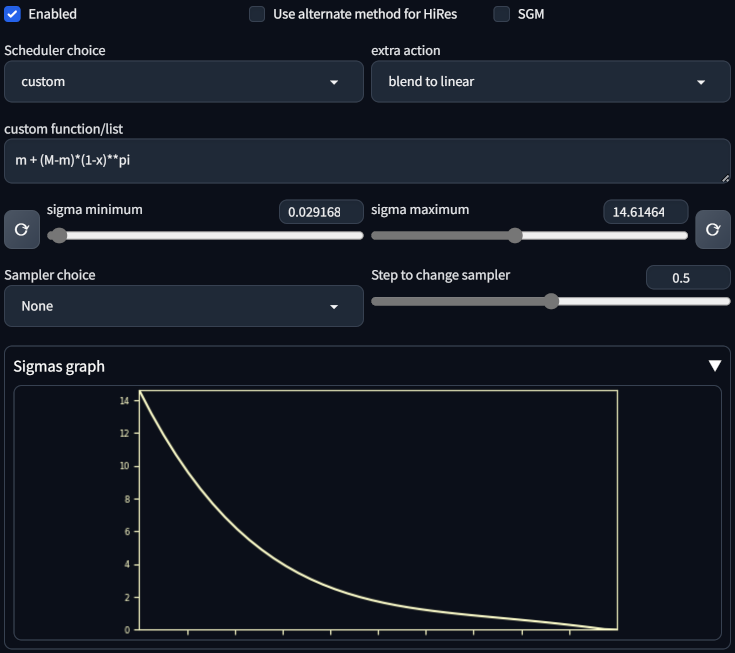
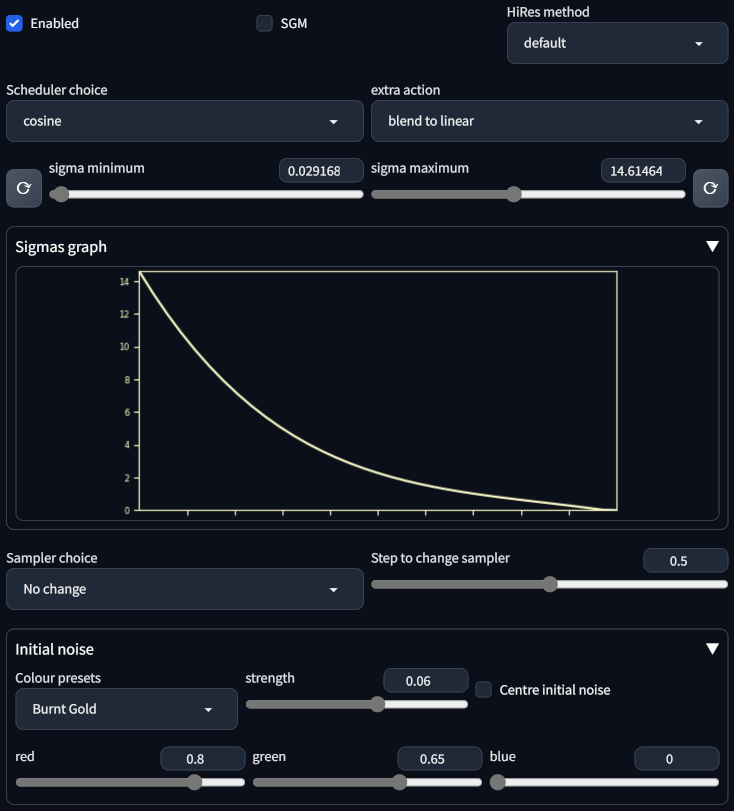
Add files via upload
see README

diff --git a/scripts/forge_overSched.py b/scripts/forge_overSched.py
@@ -13,7 +13,7 @@ import modules.sd_samplers_lcm
 import modules.sd_samplers_timesteps
 import torch, math
 import numpy as np
-
+from modules.sd_samplers_common import images_tensor_to_samples, approximation_indexes
 
 import matplotlib
 matplotlib.use('Agg')
@@ -25,7 +25,7 @@ from modules_forge.forge_sampler import sampling_prepare, sampling_cleanup
 
 class patchedKDiffusionSampler(modules.sd_samplers_common.Sampler):
     samplers_list = [
-        ('None',        None,                                           {}                                                                              ),
+        ('No change',   None,                                           {}                                                                              ),
         ('DPM++ 2M',    k_diffusion.sampling.sample_dpmpp_2m,           {}                                                                              ),
         ('Euler a',     k_diffusion.sampling.sample_euler_ancestral,    {"uses_ensd": True}                                                             ),
         ('Euler',       k_diffusion.sampling.sample_euler,              {}                                                                              ),
@@ -453,12 +453,64 @@ class patchedKDiffusionSampler(modules.sd_samplers_common.Sampler):
 
         sigmas = self.get_sigmas(p, steps).to(x.device)
 
+        #   can modify initial noise here? yep
+        if OverSchedForge.centreNoise:
+            for b in range(len(x)):
+                for c in range(4):
+                    x[b][c] -= x[b][c].mean()
+
+        w = x.size(3)
+        h = x.size(2)
+
+        #   sharpen the initial noise
+        if OverSchedForge.sharpNoise:
+            import torchvision.transforms.functional as TF
+            minDim = 1 + 2 * (min(w, h) // 2)
+            for b in range(len(x)):
+                blurred = TF.gaussian_blur(x[b], minDim)
+                x[b] = (1.04)*x[b] - 0.04*blurred
+
+        #   colour the initial noise
+        if OverSchedForge.noiseStrength != 0.0:
+            nr = (OverSchedForge.initialNoiseR * 2) - 1.0
+            ng = (OverSchedForge.initialNoiseG * 2) - 1.0
+            nb = (OverSchedForge.initialNoiseB * 2) - 1.0
+
+##            latent1x1a = 1.6981 * nr + -0.029861 * ng + -0.057465 * nb
+##            latent1x1b = -0.282707 * nr + 4.91431 * ng + -3.04784 * nb
+##            latent1x1c = -2.55163 * nr + 2.23159 * ng + 0.0448761 * nb
+##            latent1x1d = -0.780834 * nr + 3.02981 * ng + -3.22914 * nb
+
+##            latent1x1a = torch.tensor(latent1x1a, device=shared.device).repeat(h, w)
+##            latent1x1b = torch.tensor(latent1x1b, device=shared.device).repeat(h, w)
+##            latent1x1c = torch.tensor(latent1x1c, device=shared.device).repeat(h, w)
+##            latent1x1d = torch.tensor(latent1x1d, device=shared.device).repeat(h, w)
+##            latent = torch.stack((latent1x1a, latent1x1b, latent1x1c, latent1x1d), dim=0)
+##            del latent1x1a, latent1x1b, latent1x1c, latent1x1d
+##            latent = latent.unsqueeze(0)
+##
+##            torch.lerp (x, latent, OverSchedForge.noiseStrength, out=x)
+##            del latent
+
+            imageR = torch.tensor(np.full((8,8), (nr), dtype=np.float32))
+            imageG = torch.tensor(np.full((8,8), (ng), dtype=np.float32))
+            imageB = torch.tensor(np.full((8,8), (nb), dtype=np.float32))
+            image = torch.stack((imageR, imageG, imageB), dim=0)
+            image = image.unsqueeze(0)
+
+            latent = images_tensor_to_samples(image, approximation_indexes.get(opts.sd_vae_encode_method), p.sd_model)
+            if shared.sd_model.is_sd1 == True:
+                latent *= 3.5   #maybe should be ~3.5? roughly match scale with default noise
+            latent = latent.repeat (1, 1, h, w)
+
+            torch.lerp (x, latent, OverSchedForge.noiseStrength, out=x)
+            del imageR, imageG, imageB, image, latent
+
         if opts.sgm_noise_multiplier:
             p.extra_generation_params["SGM noise multiplier"] = True
             x = x * torch.sqrt(1.0 + sigmas[0] ** 2.0)
         else:
             x = x * sigmas[0]
-
 
         extra_params_kwargs = self.initialize(p)
 #p is modules.processing.StableDiffusionProcessingTxt2Img object
@@ -473,11 +525,14 @@ class patchedKDiffusionSampler(modules.sd_samplers_common.Sampler):
         }
 
         listSigmas = sigmas.tolist()
+        samplerIndex = OverSchedForge.samplerIndex
 
-        stepToChange = int(OverSchedForge.step * len(sigmas))
-
-        s1 = torch.tensor(listSigmas[0:stepToChange+1], device='cuda:0')
-        s2 = torch.tensor(listSigmas[stepToChange:len(sigmas)], device='cuda:0')
+        if samplerIndex == 0:
+            s1 = sigmas
+        else:
+            stepToChange = int(OverSchedForge.step * len(sigmas))
+            s1 = torch.tensor(listSigmas[0:stepToChange+1], device='cuda:0')
+            s2 = torch.tensor(listSigmas[stepToChange:len(sigmas)], device='cuda:0')
 
         parameters = inspect.signature(self.func).parameters
 
@@ -509,60 +564,54 @@ class patchedKDiffusionSampler(modules.sd_samplers_common.Sampler):
 
         #euler dy slightly different results with switch, and dpm2 (uses sigma[i-1])
 
+        if samplerIndex != 0:
+            self.func = patchedKDiffusionSampler.samplers_list[samplerIndex][1]
+            extraParams = patchedKDiffusionSampler.samplers_list[samplerIndex][2]
 
-        samplerIndex = OverSchedForge.samplerIndex
-        self.func = patchedKDiffusionSampler.samplers_list[samplerIndex][1]
-        extraParams = patchedKDiffusionSampler.samplers_list[samplerIndex][2]
+            parameters = inspect.signature(self.func).parameters
 
+            if 'n' in parameters:
+                extra_params_kwargs['n'] = steps
 
-        parameters = inspect.signature(self.func).parameters
+            if 'sigma_min' in parameters:
+                extra_params_kwargs['sigma_min'] = self.model_wrap.sigmas[-1].item()    #check these - need to use values from extension instead?
+                extra_params_kwargs['sigma_max'] = self.model_wrap.sigmas[0].item()
 
-        if 'n' in parameters:
-            extra_params_kwargs['n'] = steps
+            if 'sigmas' in parameters:
+                extra_params_kwargs['sigmas'] = s2
+            else:
+                extra_params_kwargs.pop('sigmas', None)
 
-        if 'sigma_min' in parameters:
-            extra_params_kwargs['sigma_min'] = self.model_wrap.sigmas[-1].item()    #check these - need to use values from extension instead?
-            extra_params_kwargs['sigma_max'] = self.model_wrap.sigmas[0].item()
+            if extraParams.get('brownian_noise', False):
+                noise_sampler = self.create_noise_sampler(x, sigmas, p)
+                extra_params_kwargs['noise_sampler'] = noise_sampler
+                extra_params_kwargs['s_noise'] = 1.0
+                extra_params_kwargs['eta'] = 1.0
+            else:
+                extra_params_kwargs.pop('eta', None)
+                extra_params_kwargs.pop('s_noise', None)
+                extra_params_kwargs.pop('noise_sampler', None)
 
-        if 'sigmas' in parameters:
-            extra_params_kwargs['sigmas'] = s2
-        else:
-            extra_params_kwargs.pop('sigmas', None)
+            if extraParams.get('solver_type', None) == 'heun':
+                extra_params_kwargs['solver_type'] = 'heun'
 
-        if extraParams.get('brownian_noise', False):
-            noise_sampler = self.create_noise_sampler(x, sigmas, p)
-            extra_params_kwargs['noise_sampler'] = noise_sampler
-            extra_params_kwargs['s_noise'] = 1.0
-            extra_params_kwargs['eta'] = 1.0
-        else:
-            extra_params_kwargs.pop('eta', None)
-            extra_params_kwargs.pop('s_noise', None)
-            extra_params_kwargs.pop('noise_sampler', None)
-
-        if extraParams.get('solver_type', None) == 'heun':
-            extra_params_kwargs['solver_type'] = 'heun'
-
-#maybe should control this by sampler, but seems like they have default values anyway
-#add UI for these values?? overkill
-
-
-        if samplerIndex == 3 or samplerIndex == 5 or samplerIndex == 6 :     #euler, heun, dpm2
-            extra_params_kwargs['s_churn'] = shared.opts.s_churn
-            extra_params_kwargs['s_tmin'] = shared.opts.s_tmin
-            extra_params_kwargs['s_tmax'] = shared.opts.s_tmax
-        elif samplerIndex >= 16 and samplerIndex <= 19:     #euler dy *4
-            extra_params_kwargs['s_churn'] = shared.opts.s_churn
-            extra_params_kwargs['s_tmin'] = shared.opts.s_tmin
-            extra_params_kwargs['s_tmax'] = shared.opts.s_tmax
-            extra_params_kwargs['s_noise'] = shared.opts.s_noise
-        else:
-            extra_params_kwargs.pop('s_churn', None)
-            extra_params_kwargs.pop('s_tmin', None)
-            extra_params_kwargs.pop('s_tmax', None)
+            if samplerIndex == 3 or samplerIndex == 5 or samplerIndex == 6 :     #euler, heun, dpm2
+                extra_params_kwargs['s_churn'] = shared.opts.s_churn
+                extra_params_kwargs['s_tmin'] = shared.opts.s_tmin
+                extra_params_kwargs['s_tmax'] = shared.opts.s_tmax
+            elif samplerIndex >= 16 and samplerIndex <= 19:     #euler dy *4
+                extra_params_kwargs['s_churn'] = shared.opts.s_churn
+                extra_params_kwargs['s_tmin'] = shared.opts.s_tmin
+                extra_params_kwargs['s_tmax'] = shared.opts.s_tmax
+                extra_params_kwargs['s_noise'] = shared.opts.s_noise
+            else:
+                extra_params_kwargs.pop('s_churn', None)
+                extra_params_kwargs.pop('s_tmin', None)
+                extra_params_kwargs.pop('s_tmax', None)
 
 
-        samples = self.launch_sampling(steps, lambda: self.func(self.model_wrap_cfg, samples, extra_args=self.sampler_extra_args,
-                                                                disable=False, callback=self.callback_state, **extra_params_kwargs))
+            samples = self.launch_sampling(steps, lambda: self.func(self.model_wrap_cfg, samples, extra_args=self.sampler_extra_args,
+                                                                    disable=False, callback=self.callback_state, **extra_params_kwargs))
 
 ##        #save
 ##import pickle
@@ -584,8 +633,11 @@ class OverSchedForge(scripts.Script):
     get_sigmas_backup = None
     setup_img2img_steps_backup = None
     sgm = False
+    centreNoise = False
+    sharpNoise = False
 ##    last_scheduler = None
 
+    from colourPresets import presetList
 
     def __init__(self):
         self.enabled = False
@@ -625,13 +677,26 @@ class OverSchedForge(scripts.Script):
                 sigmaMax = gr.Slider (label="sigma maximum", value=14.614642,
                                       minimum=2.0, maximum=30.0, step=0.001);
                 defMax = ToolButton (value='\U000027F3')
-            with gr.Row(equalHeight=True):
-                sampler = gr.Dropdown(samplerList, value="None", type='index', label='Sampler choice', scale=1)
-                step = gr.Slider(minimum=0.01, maximum=0.99, value=0.5, label='Step to change sampler')
 
             with gr.Accordion (open=False, label="Sigmas graph"):
                 z_vis = gr.Plot(value=None, elem_id='schedride-vis', show_label=False, scale=2) 
 
+            with gr.Row(equalHeight=True):
+                sampler = gr.Dropdown(samplerList, value="No change", type='index', label='Sampler choice', scale=1)
+                step = gr.Slider(minimum=0.01, maximum=0.99, value=0.5, label='Step to change sampler')
+
+            with gr.Accordion (open=False, label="Initial noise"):
+                with gr.Row(equalHeight=True):
+                    preset = gr.Dropdown([i[0] for i in self.presetList], value="None", type='index', label='Colour presets')
+                    noiseStrength = gr.Slider(minimum=0, maximum=0.1, value=0.0, step=0.001, label='strength')
+                    centreNoise = ToolButton(value="c", variant='secondary', tooltip='Centre initial noise')
+                    sharpNoise = ToolButton(value="s", variant='secondary', tooltip='Sharpen initial noise')
+
+                with gr.Row():
+                    initialNoiseR = gr.Slider(minimum=0, maximum=1.0, value=0.0, label='red')
+                    initialNoiseG = gr.Slider(minimum=0, maximum=1.0, value=0.0, label='green')
+                    initialNoiseB = gr.Slider(minimum=0, maximum=1.0, value=0.0, label='blue')
+                
             for i in [scheduler, action, custom, sigmaMin, sigmaMax]:
                 i.change(
                     fn=self.visualize,
@@ -646,16 +711,38 @@ class OverSchedForge(scripts.Script):
                 else:
                     return gr.update(visible=False)
 
-            scheduler.change(fn=toggleCustom, inputs=[scheduler], outputs=[custom], show_progress=False)
+            def updateColours (p):
+                return self.presetList[p][1], self.presetList[p][2], self.presetList[p][3], self.presetList[p][4]
 
+            scheduler.change(fn=toggleCustom, inputs=[scheduler], outputs=[custom], show_progress=False)
+            preset.change(fn=updateColours, inputs=[preset], outputs=[initialNoiseR, initialNoiseG, initialNoiseB, noiseStrength], show_progress=False)
 
             def defaultSigmaMin ():
                 return 0.029168
             def defaultSigmaMax ():
                 return 14.614642
-
             defMin.click(defaultSigmaMin, inputs=[], outputs=sigmaMin, show_progress=False)
             defMax.click(defaultSigmaMax, inputs=[], outputs=sigmaMax, show_progress=False)
+
+            def toggleCentre ():
+                if OverSchedForge.centreNoise == False:
+                    OverSchedForge.centreNoise = True
+                    return gr.Button.update(value='C', variant='primary')
+                else:
+                    OverSchedForge.centreNoise = False
+                    return gr.Button.update(value='c', variant='secondary')
+            def toggleSharp ():
+                if OverSchedForge.sharpNoise == False:
+                    OverSchedForge.sharpNoise = True
+                    return gr.Button.update(value='S', variant='primary')
+                else:
+                    OverSchedForge.sharpNoise = False
+                    return gr.Button.update(value='s', variant='secondary')
+
+
+            centreNoise.click(toggleCentre, inputs=[], outputs=centreNoise)
+            sharpNoise.click(toggleSharp, inputs=[], outputs=sharpNoise)
+
 
         self.infotext_fields = [
             (enabled, lambda d: enabled.update(value=("os_enabled" in d))),
@@ -668,9 +755,15 @@ class OverSchedForge(scripts.Script):
             (sigmaMax, "os_sigmaMax"),
             (sampler, "os_sampler"),
             (step, "os_step"),
+            (centreNoise, "os_centreNoise"),
+            (sharpNoise, "os_sharpNoise"),
+            (noiseStrength, "os_noiseStr"),
+            (initialNoiseR, "os_nR"),
+            (initialNoiseG, "os_nG"),
+            (initialNoiseB, "os_nB"),
         ]
 
-        return enabled, hiresAlt, sgm, scheduler, action, custom, sigmaMin, sigmaMax, sampler, step
+        return enabled, hiresAlt, sgm, scheduler, action, custom, sigmaMin, sigmaMax, initialNoiseR, initialNoiseG, initialNoiseB, noiseStrength, sampler, step
 
     def visualize(self, scheduler, action, sigmaMin, sigmaMax, custom):
         if scheduler == "None":
@@ -728,7 +821,7 @@ class OverSchedForge(scripts.Script):
         # This will be called before every sampling.
         # If you use highres fix, this will be called twice.
 
-        enabled, hiresAlt, sgm, scheduler, action, custom, sigmaMin, sigmaMax, sampler, step = script_args
+        enabled, hiresAlt, sgm, scheduler, action, custom, sigmaMin, sigmaMax, initialNoiseR, initialNoiseG, initialNoiseB, noiseStrength, sampler, step = script_args
         self.enabled = enabled
 
         if not enabled:
@@ -741,6 +834,10 @@ class OverSchedForge(scripts.Script):
         OverSchedForge.custom = custom.strip()
         OverSchedForge.sigmaMin = sigmaMin
         OverSchedForge.sigmaMax = sigmaMax
+        OverSchedForge.initialNoiseR = initialNoiseR
+        OverSchedForge.initialNoiseG = initialNoiseG
+        OverSchedForge.initialNoiseB = initialNoiseB
+        OverSchedForge.noiseStrength = noiseStrength
         OverSchedForge.samplerIndex = sampler
         OverSchedForge.step = step
 
@@ -750,8 +847,8 @@ class OverSchedForge(scripts.Script):
             OverSchedForge.hiresAlt = hiresAlt
             modules.sd_samplers_common.setup_img2img_steps = patchedKDiffusionSampler.setup_img2img_steps
 
-        if sampler != 0:
-            K.KDiffusionSampler.sample = patchedKDiffusionSampler.sample
+        #if sampler != 0:
+        K.KDiffusionSampler.sample = patchedKDiffusionSampler.sample
 
         params.extra_generation_params.update({
             "os_enabled" : enabled,
@@ -762,11 +859,17 @@ class OverSchedForge(scripts.Script):
             "os_sigmaMin" : sigmaMin,
             "os_sigmaMax" : sigmaMax,
             "os_sampler" : patchedKDiffusionSampler.samplers_list[sampler][0],
+            "os_centreNoise" : OverSchedForge.centreNoise,
+            "os_sharpNoise" : OverSchedForge.sharpNoise,
+            "os_noiseStr" : noiseStrength,
             })
         if scheduler == "custom":
             params.extra_generation_params.update(dict(os_custom = custom, ))
         if sampler != 0:
             params.extra_generation_params.update(dict(os_step = step, ))
+        if noiseStrength != 0:
+            params.extra_generation_params.update(dict(os_nR = initialNoiseR, os_nG = initialNoiseG, os_nB = initialNoiseB, ))
+            
 
         return
 

diff --git a/colourPresets.py b/colourPresets.py
@@ -1,0 +1,9 @@
+presetList = [          #   R       G       B       strength
+    ( "None",               0.0,    0.0,    0.0,    0.0     ),
+    ( "Hollywood Mexico",   0.7 ,   0.65,   0.3,    0.075   ),
+    ( "Your Dark Soul",     0.05,   0.0,    0.1,    0.055   ),
+    ( "Popsys",             0.95,   0.95,   1.0,    0.045   ),
+    ( "Blue hour",          0.55,   0.55,   0.8,    0.06    ),
+    ( "Burnt Gold",         0.8,    0.65,   0.0,    0.075   ),
+    ( "Cool Summer",        0.45,   0.75,   0.95,   0.075   ),
+    ]

diff --git a/README.md b/README.md
@@ -1,6 +1,18 @@
 # Scheduler Override #
 ### extension for Forge webui for Stable Diffusion ###
 ---
+### 09/06/2024 ###
+added ways of manipulating the starting noise, mainly colourising it. There are extensions which do this already ([example](https://github.com/kenning/sd-webui-noise-color-picker)) , but they switch to img2img processing behind the scenes, which is excellent cheating. But in this repo, things are done *properly*: by patching the entire sample function <sup>which I was already doing anyway</sup>. Some samplers reduce/block the effect: DPM++ SDE, UniPC. Effect also dependent on model. Which makes the preset list largely pointless.
+
+As this modifies the initial noise it can have a significant effect on the final result. If doing serious work, you probably want to settle on settings before spending time refining your prompt.
+
+Presets stored in **colourPresets.py** in the extension directory. Currently manual edits only. Need a button to add/delete?
+
+**c** button toggles centre to mean of initial noise.
+
+**s** button toggles sharpening of initial noise.
+
+
 ### 26/05/2024 ###
 changed method of checking for Euler Dy samplers, previous method didn't always find them (possibly due to extension load order?)
 
@@ -98,6 +110,8 @@ This method takes another, even simpler, approach. Multiply sigma_max by the den
 [Carzit](https://github.com/Carzit/sd-webui-samplers-scheduler)
 
 [Muerilla](https://github.com/muerrilla/sd-webui-detail-daemon) for how to graph plot
+
+[keturn](https://discuss.huggingface.co/t/decoding-latents-to-rgb-without-upscaling/23204/2) for latent->RGB approximate conversion matrix.
 
 ---
 ## License ##
